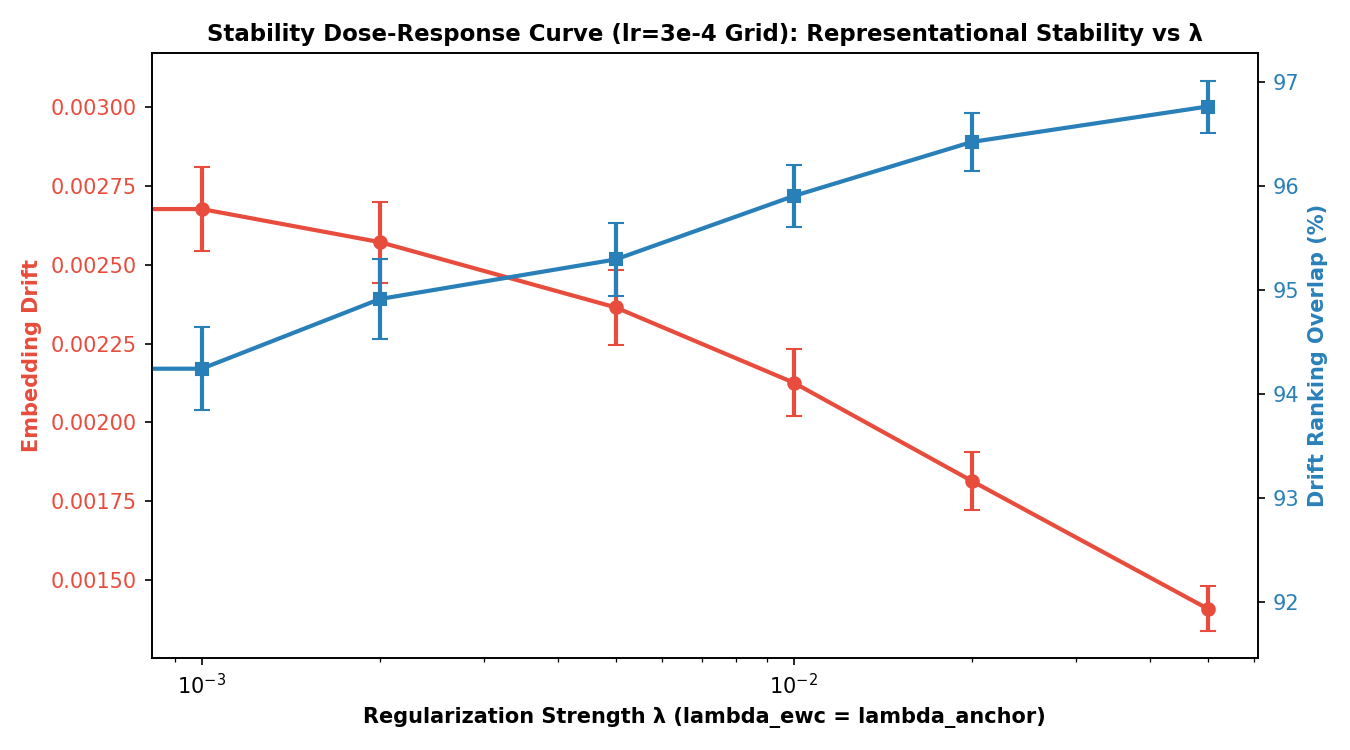
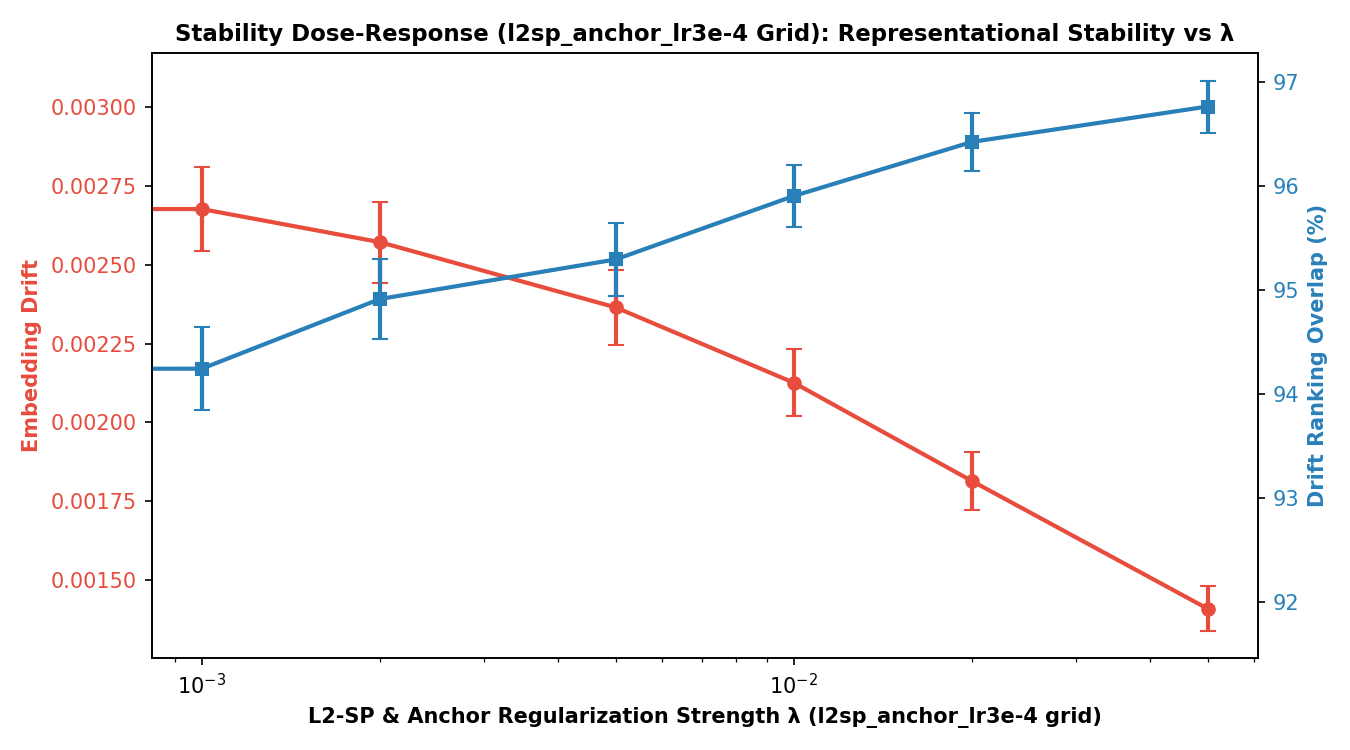
fix(validation): pass condition=cond dynamically and fix lambda_l2sp parameter in main loop

Changed region(s): [[0.2178, 0.92, 0.8089, 0.9813], [0.1244, 0.0307, 0.9333, 0.0613]]

diff --git a/run_continual_learning_validation.py b/run_continual_learning_validation.py
@@ -168,7 +168,7 @@ def train_verifier_on_fly(cache_data):
 # ---------------------------------------------------------------------------
 # Continual Learning Simulation
 # ---------------------------------------------------------------------------
-def run_continual_experiment(tokenizer, all_facts, cache_data, condition="agnis_replay", shuffles=5, seeds=3, lr=3e-4, lambda_ewc=0.1, lambda_anchor=0.1):
+def run_continual_experiment(tokenizer, all_facts, cache_data, condition="l2sp_anchor", shuffles=5, seeds=3, lr=3e-4, lambda_l2sp=0.1, lambda_anchor=0.1):
     results = []
     trajectories = []
     
@@ -809,8 +809,8 @@ def main():
         if len(cfg) > 0:
             name, lr_val, l_ewc, l_anchor = cfg[0]
             res = run_continual_experiment(tokenizer, all_facts, cache_data, 
-                                           condition="agnis_replay", shuffles=5, seeds=3,
-                                           lr=lr_val, lambda_ewc=l_ewc, lambda_anchor=l_anchor)
+                                           condition=cond, shuffles=5, seeds=3,
+                                           lr=lr_val, lambda_l2sp=l_ewc, lambda_anchor=l_anchor)
         else:
             res = run_continual_experiment(tokenizer, all_facts, cache_data, condition=cond, shuffles=5, seeds=3)
             
